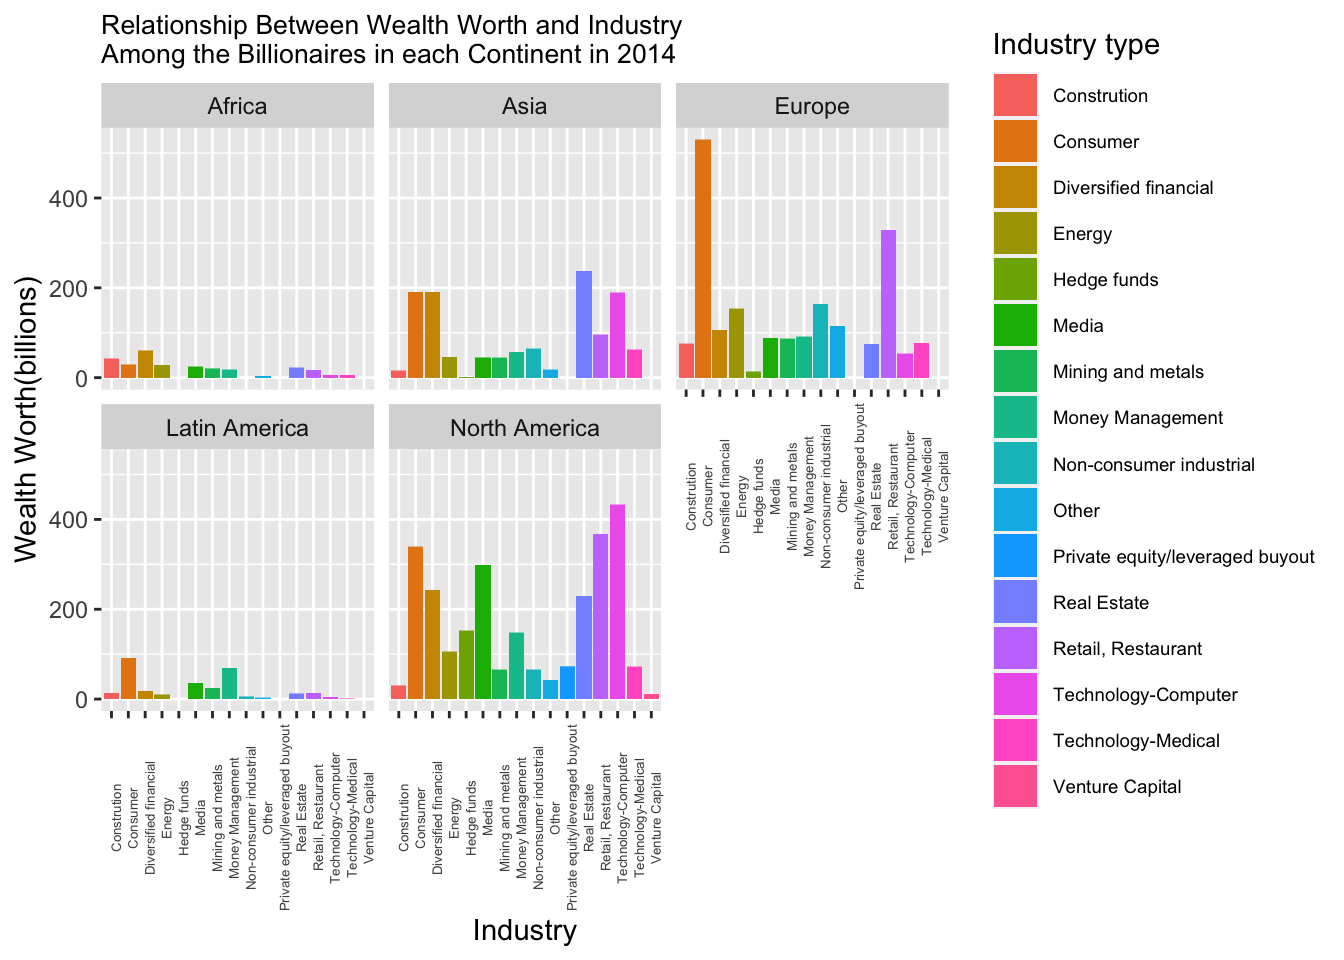
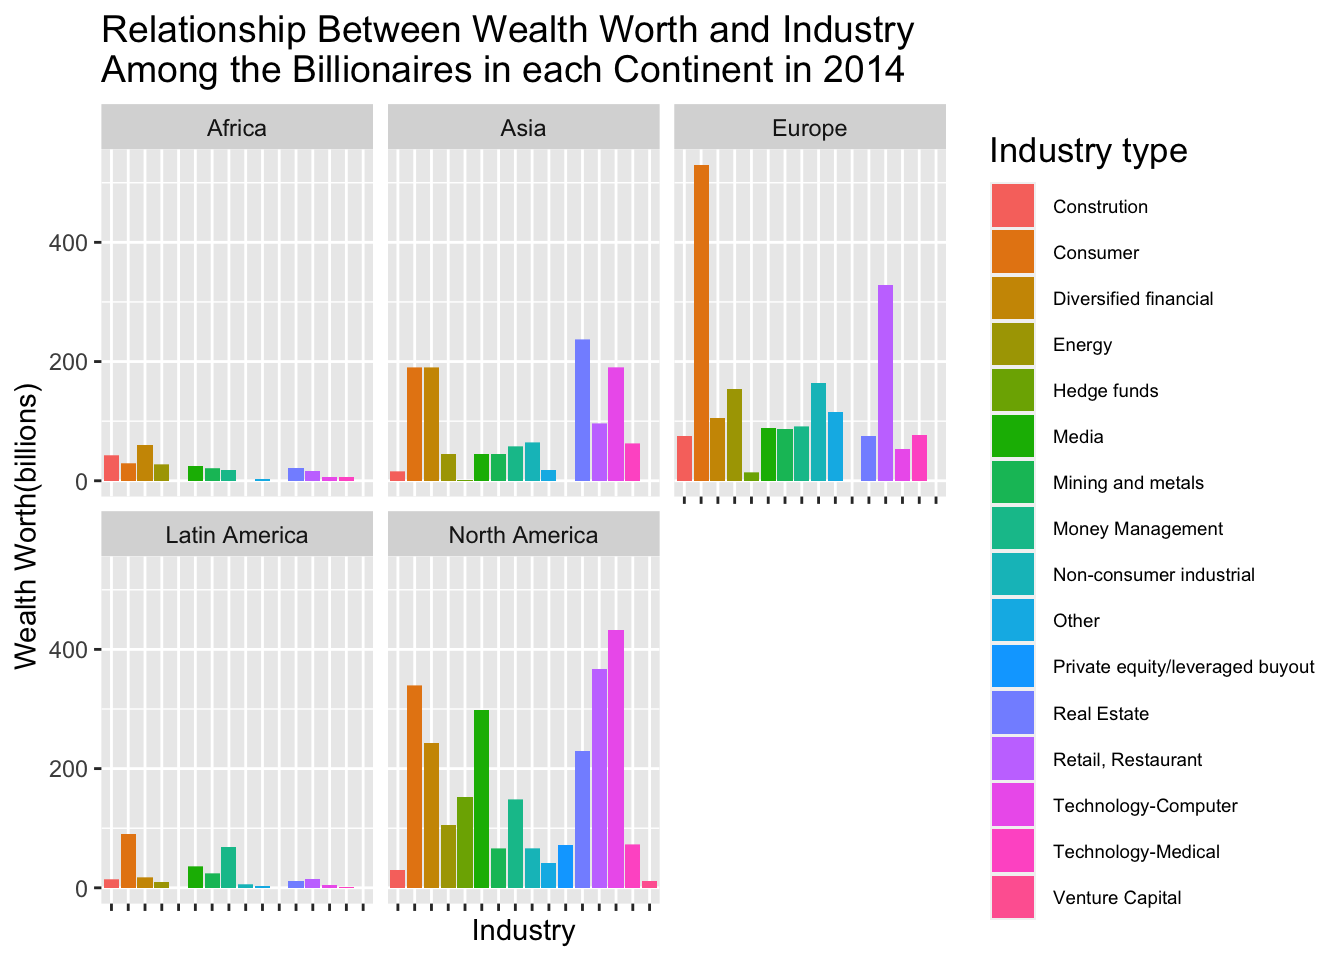
minor tweaks

diff --git a/docs/report.html b/docs/report.html
@@ -7,7 +7,7 @@
 <meta name="viewport" content="width=device-width, initial-scale=1.0, user-scalable=yes">
 
 
-<title>Billionaires</title>
+<title>Wanna be rich? Here’s how!</title>
 <style>
 code{white-space: pre-wrap;}
 span.smallcaps{font-variant: small-caps;}
@@ -174,8 +174,8 @@ code span.wa { color: #60a0b0; font-weight: bold; font-style: italic; } /* Warni
 
 <header id="title-block-header" class="quarto-title-block default">
 <div class="quarto-title">
-<h1 class="title">Billionaires</h1>
-<p class="subtitle lead">Data Report and Visualization</p>
+<h1 class="title">Wanna be rich? Here’s how!</h1>
+<p class="subtitle lead">A statistical analysis regarding which industry has the highest number of billionaires based on their continent</p>
 </div>
 
 
@@ -192,21 +192,13 @@ code span.wa { color: #60a0b0; font-weight: bold; font-style: italic; } /* Warni
 
 <section id="introduction-and-data" class="level4">
 <h4 class="anchored" data-anchor-id="introduction-and-data">Introduction and data</h4>
-<p>Topic:</p>
-<ul>
-<li>Our topic is exploring the dataset “Billionaires” which contains information on the Billionaires in the world in 1996, 2001, 2014. The dataset involves information on each billionaire such as their country, wealth worth, wealth type, industry, etc. Using some of these variables, we can create a question that helps us gather more insight on the wealth world.</li>
-</ul>
+<p>Our topic focus on the dataset “Billionaires” (2016), which contains information on the Billionaires in the world in 1996, 2001, 2014. The dataset involves information on each billionaire such as their country, wealth worth, wealth type, industry, etc. Using some of these variables, we came up with a question that helps us gather more insight on the wealth world.</p>
 <p>Research Question and Hypothesis:</p>
 <ul>
-<li><p>In 2014, how did the relationship between wealth worth and industry among the billionaires differ between each continent?</p>
-<ul>
-<li>First of all, we hypothesize that some continents and industries will contain more billionaires than others. Specifically, we hypothesize that North America will have the most billionaires, followed by Asia. To answer our full question, based on our prior background knowledge, we predict that the industry of technology-computer will contain the most billionaires. However, we also acknowledge that each continent is very different, so our prior background knowledge may only apply to North America, where we reside.</li>
-</ul></li>
+<li>In 2014, how did the relationship between wealth worth and industry among the billionaires differ between each continent?</li>
 </ul>
-<p>Identify the source of the data, when and how it was collected, the cases, a general description of relevant variables:</p>
-<ul>
-<li>The data was collected in 1996, 2001, and 2014. We are only focusing on the data collected in 2014. It compiled Forbes World’s Billionaires list and shows a record number of billionaires in the world while adding detailed information on the individuals listed. The relevant variables include the wealth worth, industry, and their continent.</li>
-</ul>
+<p>First of all, we hypothesize that some continents and industries will contain more billionaires than others. Specifically, we hypothesize that North America will have the most billionaires, followed by Asia. To answer our full question, based on our prior background knowledge, we predict that the industry of technology-computer will contain the most billionaires. However, we also acknowledge that each continent is very different, so our prior background knowledge may only apply to North America, where we reside.</p>
+<p>The data was from the CORGIS Dataset Project, collected by Ryan Whitcombwas in 1996, 2001, and 2014. We are only focusing on the data collected in 2014. It compiled Forbes World’s Billionaires list and shows a record number of billionaires in the world while adding detailed information on the individuals listed. The relevant variables include the wealth worth, industry, and their continent.</p>
 </section>
 <section id="methodology" class="level4">
 <h4 class="anchored" data-anchor-id="methodology">Methodology</h4>
@@ -241,9 +233,10 @@ code span.wa { color: #60a0b0; font-weight: bold; font-style: italic; } /* Warni
 <span id="cb3-9"><a href="#cb3-9" aria-hidden="true" tabindex="-1"></a>       <span class="at">x =</span> <span class="st">"Industry"</span>, </span>
 <span id="cb3-10"><a href="#cb3-10" aria-hidden="true" tabindex="-1"></a>       <span class="at">y =</span> <span class="st">"Wealth Worth(billions)"</span>,</span>
 <span id="cb3-11"><a href="#cb3-11" aria-hidden="true" tabindex="-1"></a>       <span class="at">fill =</span> <span class="st">"Industry type"</span>) <span class="sc">+</span></span>
-<span id="cb3-12"><a href="#cb3-12" aria-hidden="true" tabindex="-1"></a>  <span class="fu">theme</span>(<span class="at">plot.title =</span> <span class="fu">element_text</span>(<span class="at">size =</span> <span class="dv">10</span>)) <span class="sc">+</span></span>
+<span id="cb3-12"><a href="#cb3-12" aria-hidden="true" tabindex="-1"></a>  <span class="fu">theme</span>(<span class="at">plot.title =</span> <span class="fu">element_text</span>(<span class="at">size =</span> <span class="dv">14</span>)) <span class="sc">+</span></span>
 <span id="cb3-13"><a href="#cb3-13" aria-hidden="true" tabindex="-1"></a>  <span class="fu">theme</span>(<span class="at">legend.text =</span> <span class="fu">element_text</span>(<span class="at">size =</span> <span class="dv">7</span>)) <span class="sc">+</span></span>
-<span id="cb3-14"><a href="#cb3-14" aria-hidden="true" tabindex="-1"></a>  <span class="fu">theme</span>(<span class="at">axis.text.x =</span> <span class="fu">element_text</span>(<span class="at">size =</span> <span class="dv">5</span>))</span></code><button title="Copy to Clipboard" class="code-copy-button"><i class="bi"></i></button></pre></div>
+<span id="cb3-14"><a href="#cb3-14" aria-hidden="true" tabindex="-1"></a>  <span class="fu">theme</span>(<span class="at">legend.title =</span> <span class="fu">element_text</span>(<span class="at">size =</span> <span class="dv">13</span>)) <span class="sc">+</span></span>
+<span id="cb3-15"><a href="#cb3-15" aria-hidden="true" tabindex="-1"></a>  <span class="fu">theme</span>(<span class="at">axis.text.x =</span> <span class="fu">element_blank</span>())</span></code><button title="Copy to Clipboard" class="code-copy-button"><i class="bi"></i></button></pre></div>
 <div class="cell-output-display">
 <p><img src="report_files/figure-html/graphs-1.png" class="img-fluid" width="672"></p>
 </div>
@@ -252,8 +245,12 @@ code span.wa { color: #60a0b0; font-weight: bold; font-style: italic; } /* Warni
 <section id="results" class="level4">
 <h4 class="anchored" data-anchor-id="results">Results</h4>
 <ul>
-<li><p>To answer our research question, we created a plot to visualize the relationship between industry and wealth worth, with industry being on the x axis and wealth worth in billions on the y axis. Additionally, in order to compare these variables by continent, we used facet wrap to make multiple plots next to each other. This visualization made it easy for us to draw conclusions to our question.</p></li>
+<li><p>To answer our research question, we created a plot to visualize the relationship between industry and wealth worth, with industry being on the x-axis and wealth worth in billions on the y-axis. Additionally, in order to compare these variables by continent, we used facet wrap to make multiple plots next to each other. This visualization made it easy for us to draw conclusions to our question.</p></li>
 <li><p>From the table depicting the number of billionaires per continent in 2014, we found that overall, North America had the most billionaires (as our hypothesis stated), followed by Europe and then Asia. This does not line up with the prediction, as we had predicted Asia to come first. For industry, we found that technology-computer was in fact the industry with the most billionaires in North America. However, it was found that each continent had a very different turn out regarding which industry was the most successful. For Europe and Latin America, the industry with the most billionaires was the consumer industry; for Africa, the diversified financial industry; and for Asia, the real estate industry.</p></li>
+</ul>
+<p><strong>Citation and Reference</strong></p>
+<ul>
+<li>“Billionaires CSV File” from the CORGIS Dataset Project. By Ryan Whitcomb, Version 2.0.0, created on 5/17/2016.</li>
 </ul>
 
 
